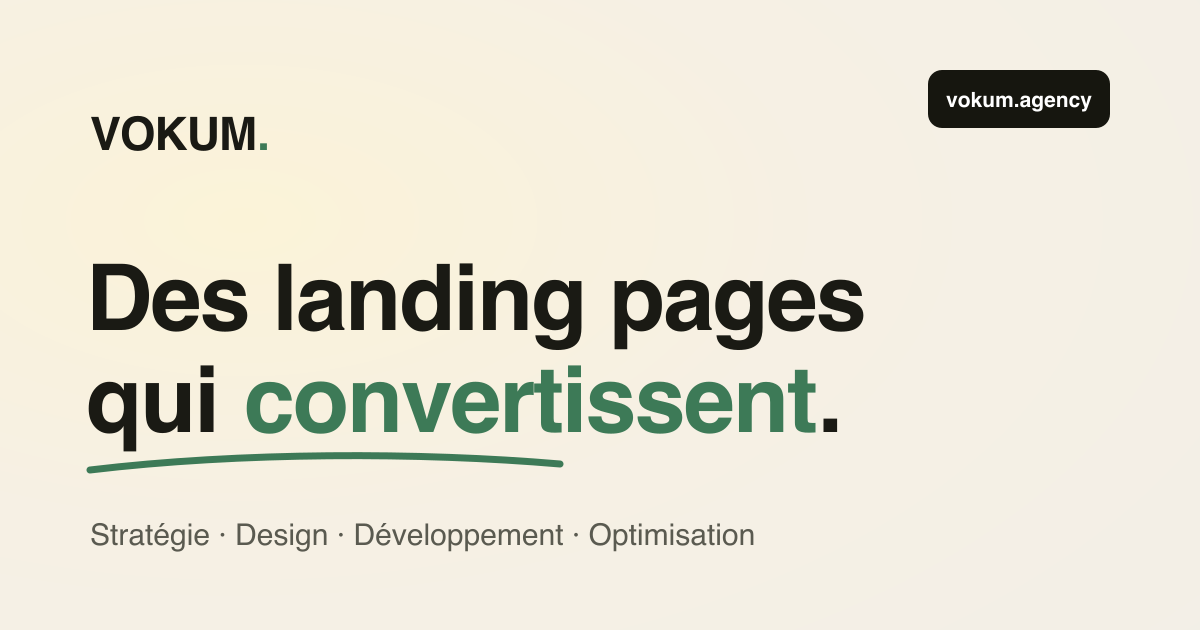
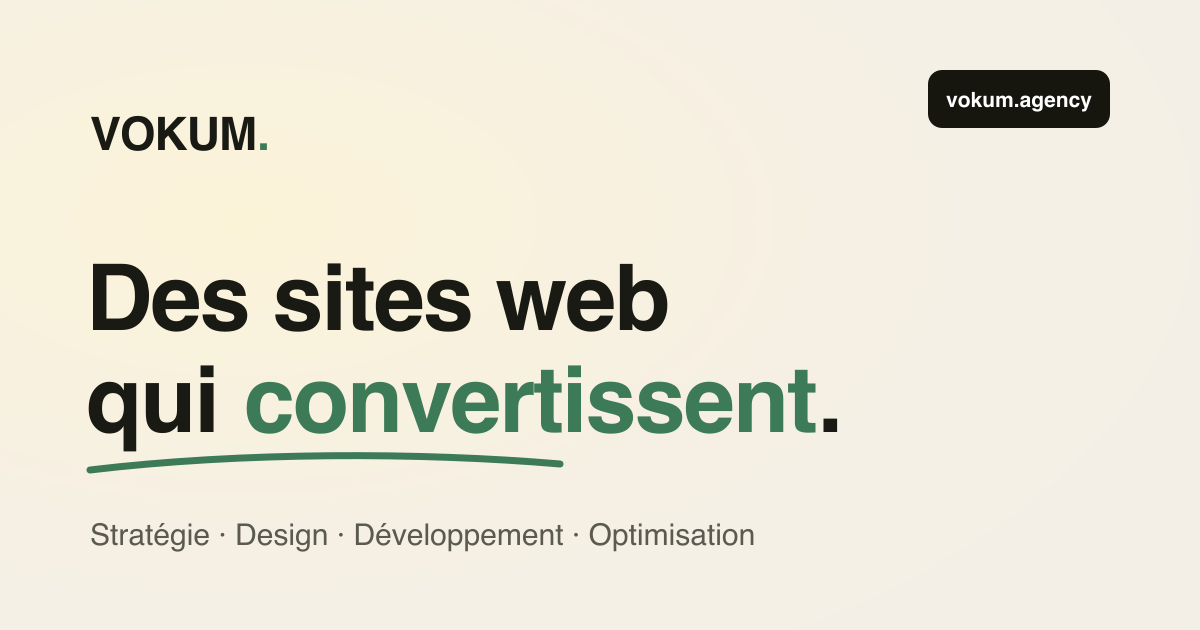
Rebrand : landing pages → sites web
Positionnement recentré sur la création de sites web (pas seulement
des landing pages). Remplacé partout : hero, titres, meta, OG/Twitter,
JSON-LD, services, tarifs, FAQ, blog, guides, processus, contact, 404.
- H1 « On crée des sites web qui convertissent »
- service 01 « Création de site web »
- OG image régénérée « Des sites web qui convertissent »
- grammaire corrigée (masculin), « votre page » → « votre site »
- domaine vokum-landing.vercel.app inchangé

Changed region(s): [[0.2158, 0.4222, 0.74, 0.573]]

diff --git a/index.html b/index.html
@@ -3,21 +3,21 @@
 <head>
 <meta charset="utf-8">
 <meta name="viewport" content="width=device-width, initial-scale=1">
-<title>VOKUM — Landing pages premium qui convertissent</title>
-<meta name="description" content="VOKUM conçoit des landing pages sur-mesure, rapides et stratégiques pour transformer vos visiteurs en clients.">
+<title>VOKUM — Sites web premium qui convertissent</title>
+<meta name="description" content="VOKUM conçoit des sites web sur-mesure, rapides et stratégiques pour transformer vos visiteurs en clients.">
 <meta name="theme-color" content="#f6f0e4">
 
 <meta property="og:type" content="website">
 <meta property="og:url" content="https://vokum-landing.vercel.app/">
-<meta property="og:title" content="Des landing pages premium qui convertissent.">
-<meta property="og:description" content="Stratégie, design et développement pour lancer une page claire, rapide et orientée résultats.">
+<meta property="og:title" content="Des sites web premium qui convertissent.">
+<meta property="og:description" content="Stratégie, design et développement pour lancer un site clair, rapide et orientée résultats.">
 <meta property="og:image" content="https://vokum-landing.vercel.app/assets/og.png">
 <meta property="og:image:width" content="1200">
 <meta property="og:image:height" content="630">
 <meta property="og:locale" content="fr_FR">
 <meta name="twitter:card" content="summary_large_image">
-<meta name="twitter:title" content="Des landing pages premium qui convertissent.">
-<meta name="twitter:description" content="Stratégie, design et développement pour lancer une page claire, rapide et orientée résultats.">
+<meta name="twitter:title" content="Des sites web premium qui convertissent.">
+<meta name="twitter:description" content="Stratégie, design et développement pour lancer un site clair, rapide et orientée résultats.">
 <meta name="twitter:image" content="https://vokum-landing.vercel.app/assets/og.png">
 
 <link rel="preconnect" href="https://fonts.googleapis.com">
@@ -40,17 +40,17 @@
       "url": "https://vokum-landing.vercel.app/",
       "logo": "https://vokum-landing.vercel.app/apple-touch-icon.png",
       "image": "https://vokum-landing.vercel.app/assets/og.png",
-      "description": "Agence spécialisée en landing pages premium orientées conversion : stratégie, design, développement et optimisation.",
+      "description": "Agence spécialisée en sites web premium orientées conversion : stratégie, design, développement et optimisation.",
       "email": "[email redacted]",
       "address": { "@type": "PostalAddress", "addressLocality": "Montréal", "addressRegion": "QC", "addressCountry": "CA" },
       "areaServed": ["Québec", "Canada", "France", "International"],
-      "knowsAbout": ["Landing pages", "Conversion", "Web design", "Développement web", "Tests A/B"]
+      "knowsAbout": ["Sites web", "Conversion", "Web design", "Développement web", "Tests A/B"]
     },
     {
       "@type": "WebSite",
       "@id": "https://vokum-landing.vercel.app/#website",
       "url": "https://vokum-landing.vercel.app/",
-      "name": "VOKUM — Landing pages premium qui convertissent",
+      "name": "VOKUM — Sites web premium qui convertissent",
       "inLanguage": "fr",
       "publisher": { "@id": "https://vokum-landing.vercel.app/#organization" }
     }
@@ -68,9 +68,9 @@
   <section class="hero">
     <div class="container hero__grid">
       <div class="hero__left reveal">
-        <h1 class="hero__title">On crée<br>des landing<br>pages</h1>
+        <h1 class="hero__title">On crée<br>des sites<br>web</h1>
         <div class="hero__script">qui convertissent.</div>
-        <p class="hero__lead">Nous concevons des landing pages sur-mesure qui captent l'attention et transforment chaque visite en client.</p>
+        <p class="hero__lead">Nous concevons des sites web sur-mesure qui captent l'attention et transforment chaque visite en client.</p>
         <div class="hero__actions">
           <a href="/contact" class="btn btn--dark btn--lg">DÉMARRER UN PROJET
             <svg class="icon-arrow" viewBox="0 0 24 24" aria-hidden="true"><path d="M7 17 17 7M9 7h8v8"/></svg>
@@ -101,7 +101,7 @@
             <path d="M60 42 C 67 45, 73 47, 76 49 C 76 45, 77 39, 79 33" stroke="#2d5a43" stroke-width="2.4" stroke-linecap="round" stroke-linejoin="round"/>
           </svg>
         </div>
-        <img src="assets/p1-1448.webp" srcset="assets/p1-800.webp 800w, assets/p1-1448.webp 1448w" sizes="(max-width: 900px) 100vw, 670px" alt="Aperçu de la landing page NUBIK avec carte de statistiques" class="hero__img" width="1448" height="1086" fetchpriority="high" decoding="async">
+        <img src="assets/p1-1448.webp" srcset="assets/p1-800.webp 800w, assets/p1-1448.webp 1448w" sizes="(max-width: 900px) 100vw, 670px" alt="Aperçu du site web NUBIK avec carte de statistiques" class="hero__img" width="1448" height="1086" fetchpriority="high" decoding="async">
       </div>
     </div>
   </section>
@@ -115,7 +115,7 @@
         <p class="section__sub">Chaque projet suit un processus clair et éprouvé pour transformer<br>vos objectifs en résultats mesurables.</p>
       </div>
       <div class="scards" id="servicesGrid"></div>
-      <p class="svc-note reveal">Chaque landing page est livrée avec une base SEO propre — structure des titres, balises essentielles, performance, images optimisées, indexation prête pour Google. L'option SEO &amp; GEO ajoute la stratégie de visibilité.</p>
+      <p class="svc-note reveal">Chaque site web est livré avec une base SEO propre — structure des titres, balises essentielles, performance, images optimisées, indexation prête pour Google. L'option SEO &amp; GEO ajoute la stratégie de visibilité.</p>
       <div class="perks reveal">
         <div class="perk">
           <svg viewBox="0 0 24 24" aria-hidden="true"><circle cx="12" cy="13" r="8"/><path d="M12 9v4l2.5 2.5"/><path d="M10 2h4"/></svg>

diff --git a/faq.html b/faq.html
@@ -4,7 +4,7 @@
 <meta charset="utf-8">
 <meta name="viewport" content="width=device-width, initial-scale=1">
 <title>FAQ — Vokum | Vos questions, nos réponses</title>
-<meta name="description" content="Délais, tarifs, révisions, hébergement, technologies… Toutes les réponses aux questions fréquentes sur les landing pages Vokum.">
+<meta name="description" content="Délais, tarifs, révisions, hébergement, technologies… Toutes les réponses aux questions fréquentes sur les sites web Vokum.">
 <link rel="preconnect" href="https://fonts.googleapis.com">
 <link rel="preconnect" href="https://fonts.gstatic.com" crossorigin>
 <link href="https://fonts.googleapis.com/css2?family=Anton&family=Caveat:wght@500;600;700&family=Archivo:wght@400;500;600;700;800&display=swap" rel="stylesheet">
@@ -19,14 +19,14 @@
   "@context": "https://schema.org",
   "@type": "FAQPage",
   "mainEntity": [
-    { "@type": "Question", "name": "En combien de temps ma landing page est-elle livrée ?", "acceptedAnswer": { "@type": "Answer", "text": "Comptez 5 jours pour la formule Essentiel et environ 8 jours pour la formule Croissance, à partir de la validation du brief. Les projets sur-mesure ont un calendrier dédié défini ensemble." } },
+    { "@type": "Question", "name": "En combien de temps ma site web est-elle livrée ?", "acceptedAnswer": { "@type": "Answer", "text": "Comptez 5 jours pour la formule Essentiel et environ 8 jours pour la formule Croissance, à partir de la validation du brief. Les projets sur-mesure ont un calendrier dédié défini ensemble." } },
     { "@type": "Question", "name": "Combien de retours sont inclus ?", "acceptedAnswer": { "@type": "Answer", "text": "Une série de retours avec la formule Essentiel, deux avec la formule Croissance. Des retours supplémentaires sont possibles à un tarif communiqué à l'avance." } },
     { "@type": "Question", "name": "Avec quelles technologies travaillez-vous ?", "acceptedAnswer": { "@type": "Answer", "text": "On code des pages légères et ultra-rapides (HTML/CSS/JS, Next.js selon le besoin). On peut aussi livrer sur Webflow, Framer ou votre CMS existant si vous préférez gérer le contenu vous-même." } },
     { "@type": "Question", "name": "Vous occupez-vous du contenu et des textes ?", "acceptedAnswer": { "@type": "Answer", "text": "Oui. La formule Croissance inclut un atelier stratégie et le copywriting. Pour l'Essentiel, on part de votre contenu et on l'optimise pour la conversion." } },
-    { "@type": "Question", "name": "Gérez-vous l'hébergement et la mise en ligne ?", "acceptedAnswer": { "@type": "Answer", "text": "On met votre page en ligne et on configure le tracking. L'hébergement reste à votre nom (Vercel, Netlify, votre hébergeur…) : on vous accompagne pour le choisir et le configurer." } },
-    { "@type": "Question", "name": "Que se passe-t-il après le lancement ?", "acceptedAnswer": { "@type": "Answer", "text": "Un premier point de performance est offert. Avec la formule Croissance, on optimise votre page pendant un mois via des tests A/B. Un suivi continu est disponible en sur-mesure." } },
-    { "@type": "Question", "name": "Le SEO est-il inclus ?", "acceptedAnswer": { "@type": "Answer", "text": "Oui. Chaque landing page est livrée avec une base SEO technique propre : structure des titres, balises essentielles, performance, responsive mobile, images optimisées et indexation prête pour Google. Pour une vraie stratégie de visibilité, on propose le pack SEO & GEO avancé en option (690 €)." } },
-    { "@type": "Question", "name": "Quelle différence entre le SEO inclus et le pack SEO & GEO avancé ?", "acceptedAnswer": { "@type": "Answer", "text": "Le SEO inclus, c'est la fondation technique de votre page : structure, balises, vitesse, indexation. Le pack avancé, c'est la stratégie de visibilité : recherche de mots-clés, structure de contenu, optimisation pour que les IA comme ChatGPT ou Perplexity citent votre marque (GEO), et suivi mensuel." } },
+    { "@type": "Question", "name": "Gérez-vous l'hébergement et la mise en ligne ?", "acceptedAnswer": { "@type": "Answer", "text": "On met votre site en ligne et on configure le tracking. L'hébergement reste à votre nom (Vercel, Netlify, votre hébergeur…) : on vous accompagne pour le choisir et le configurer." } },
+    { "@type": "Question", "name": "Que se passe-t-il après le lancement ?", "acceptedAnswer": { "@type": "Answer", "text": "Un premier point de performance est offert. Avec la formule Croissance, on optimise votre site pendant un mois via des tests A/B. Un suivi continu est disponible en sur-mesure." } },
+    { "@type": "Question", "name": "Le SEO est-il inclus ?", "acceptedAnswer": { "@type": "Answer", "text": "Oui. Chaque site web est livré avec une base SEO technique propre : structure des titres, balises essentielles, performance, responsive mobile, images optimisées et indexation prête pour Google. Pour une vraie stratégie de visibilité, on propose le pack SEO & GEO avancé en option (690 €)." } },
+    { "@type": "Question", "name": "Quelle différence entre le SEO inclus et le pack SEO & GEO avancé ?", "acceptedAnswer": { "@type": "Answer", "text": "Le SEO inclus, c'est la fondation technique de votre site : structure, balises, vitesse, indexation. Le pack avancé, c'est la stratégie de visibilité : recherche de mots-clés, structure de contenu, optimisation pour que les IA comme ChatGPT ou Perplexity citent votre marque (GEO), et suivi mensuel." } },
     { "@type": "Question", "name": "Garantissez-vous la première position sur Google ?", "acceptedAnswer": { "@type": "Answer", "text": "Non — et méfiez-vous de ceux qui la promettent. Personne ne contrôle Google. Notre rôle : livrer une base rapide, propre et bien structurée, puis une stratégie sérieuse qui maximise vos chances d'être visible. On mesure, on ajuste, on progresse." } },
     { "@type": "Question", "name": "Pouvez-vous refondre une page existante ?", "acceptedAnswer": { "@type": "Answer", "text": "Absolument. C'est même un de nos terrains favoris : on part de l'existant, on identifie les freins à la conversion et on reconstruit une version plus performante." } },
     { "@type": "Question", "name": "Quels sont les délais et modalités de paiement ?", "acceptedAnswer": { "@type": "Answer", "text": "En général 50% à la commande, 50% à la livraison. Le paiement en plusieurs fois est possible, et les projets sur-mesure ont un échéancier adapté." } }
@@ -51,7 +51,7 @@
   <section class="section">
     <div class="container">
       <div class="acc">
-        <div class="acc__item"><button class="acc__q" aria-expanded="false">En combien de temps ma landing page est-elle livrée ?<span class="acc__icon"></span></button><div class="acc__a"><p>Comptez 5 jours pour la formule Essentiel et environ 8 jours pour la formule Croissance, à partir de la validation du brief. Les projets sur-mesure ont un calendrier dédié défini ensemble.</p></div></div>
+        <div class="acc__item"><button class="acc__q" aria-expanded="false">En combien de temps ma site web est-elle livrée ?<span class="acc__icon"></span></button><div class="acc__a"><p>Comptez 5 jours pour la formule Essentiel et environ 8 jours pour la formule Croissance, à partir de la validation du brief. Les projets sur-mesure ont un calendrier dédié défini ensemble.</p></div></div>
 
         <div class="acc__item"><button class="acc__q" aria-expanded="false">Combien de retours sont inclus ?<span class="acc__icon"></span></button><div class="acc__a"><p>Une série de retours avec la formule Essentiel, deux avec la formule Croissance. Des retours supplémentaires sont possibles à un tarif communiqué à l'avance.</p></div></div>
 
@@ -59,13 +59,13 @@
 
         <div class="acc__item"><button class="acc__q" aria-expanded="false">Vous occupez-vous du contenu et des textes ?<span class="acc__icon"></span></button><div class="acc__a"><p>Oui. La formule Croissance inclut un atelier stratégie et le copywriting. Pour l'Essentiel, on part de votre contenu et on l'optimise pour la conversion.</p></div></div>
 
-        <div class="acc__item"><button class="acc__q" aria-expanded="false">Gérez-vous l'hébergement et la mise en ligne ?<span class="acc__icon"></span></button><div class="acc__a"><p>On met votre page en ligne et on configure le tracking. L'hébergement reste à votre nom (Vercel, Netlify, votre hébergeur…) : on vous accompagne pour le choisir et le configurer.</p></div></div>
+        <div class="acc__item"><button class="acc__q" aria-expanded="false">Gérez-vous l'hébergement et la mise en ligne ?<span class="acc__icon"></span></button><div class="acc__a"><p>On met votre site en ligne et on configure le tracking. L'hébergement reste à votre nom (Vercel, Netlify, votre hébergeur…) : on vous accompagne pour le choisir et le configurer.</p></div></div>
 
-        <div class="acc__item"><button class="acc__q" aria-expanded="false">Que se passe-t-il après le lancement ?<span class="acc__icon"></span></button><div class="acc__a"><p>Un premier point de performance est offert. Avec la formule Croissance, on optimise votre page pendant un mois via des tests A/B. Un suivi continu est disponible en sur-mesure.</p></div></div>
+        <div class="acc__item"><button class="acc__q" aria-expanded="false">Que se passe-t-il après le lancement ?<span class="acc__icon"></span></button><div class="acc__a"><p>Un premier point de performance est offert. Avec la formule Croissance, on optimise votre site pendant un mois via des tests A/B. Un suivi continu est disponible en sur-mesure.</p></div></div>
 
-        <div class="acc__item"><button class="acc__q" aria-expanded="false">Le SEO est-il inclus ?<span class="acc__icon"></span></button><div class="acc__a"><p>Oui. Chaque landing page est livrée avec une base SEO technique propre : structure des titres, balises essentielles, performance, responsive mobile, images optimisées et indexation prête pour Google. Pour une vraie stratégie de visibilité, on propose le pack SEO & GEO avancé en option (690 €).</p></div></div>
+        <div class="acc__item"><button class="acc__q" aria-expanded="false">Le SEO est-il inclus ?<span class="acc__icon"></span></button><div class="acc__a"><p>Oui. Chaque site web est livré avec une base SEO technique propre : structure des titres, balises essentielles, performance, responsive mobile, images optimisées et indexation prête pour Google. Pour une vraie stratégie de visibilité, on propose le pack SEO & GEO avancé en option (690 €).</p></div></div>
 
-        <div class="acc__item"><button class="acc__q" aria-expanded="false">Quelle différence entre le SEO inclus et le pack SEO & GEO avancé ?<span class="acc__icon"></span></button><div class="acc__a"><p>Le SEO inclus, c'est la fondation technique de votre page : structure, balises, vitesse, indexation. Le pack avancé, c'est la stratégie de visibilité : recherche de mots-clés, structure de contenu, optimisation pour que les IA comme ChatGPT ou Perplexity citent votre marque (GEO), et suivi mensuel.</p></div></div>
+        <div class="acc__item"><button class="acc__q" aria-expanded="false">Quelle différence entre le SEO inclus et le pack SEO & GEO avancé ?<span class="acc__icon"></span></button><div class="acc__a"><p>Le SEO inclus, c'est la fondation technique de votre site : structure, balises, vitesse, indexation. Le pack avancé, c'est la stratégie de visibilité : recherche de mots-clés, structure de contenu, optimisation pour que les IA comme ChatGPT ou Perplexity citent votre marque (GEO), et suivi mensuel.</p></div></div>
 
         <div class="acc__item"><button class="acc__q" aria-expanded="false">Garantissez-vous la première position sur Google ?<span class="acc__icon"></span></button><div class="acc__a"><p>Non — et méfiez-vous de ceux qui la promettent. Personne ne contrôle Google. Notre rôle : livrer une base rapide, propre et bien structurée, puis une stratégie sérieuse qui maximise vos chances d'être visible. On mesure, on ajuste, on progresse.</p></div></div>
 

diff --git a/guides.html b/guides.html
@@ -4,7 +4,7 @@
 <meta charset="utf-8">
 <meta name="viewport" content="width=device-width, initial-scale=1">
 <title>Guides — Vokum | Ressources gratuites pour convertir</title>
-<meta name="description" content="Guides et ressources gratuites Vokum : checklists, templates et méthodes pour créer des landing pages qui convertissent.">
+<meta name="description" content="Guides et ressources gratuites Vokum : checklists, templates et méthodes pour créer des sites web qui convertissent.">
 <link rel="preconnect" href="https://fonts.googleapis.com">
 <link rel="preconnect" href="https://fonts.gstatic.com" crossorigin>
 <link href="https://fonts.googleapis.com/css2?family=Anton&family=Caveat:wght@500;600;700&family=Archivo:wght@400;500;600;700;800&display=swap" rel="stylesheet">
@@ -34,10 +34,10 @@
       <div class="posts">
 
         <article class="post reveal">
-          <div class="post__thumb"><img src="assets/p1-800.webp" width="800" height="600" loading="lazy" decoding="async" alt="Checklist landing page"></div>
+          <div class="post__thumb"><img src="assets/p1-800.webp" width="800" height="600" loading="lazy" decoding="async" alt="Checklist site web"></div>
           <div class="post__body">
             <div class="post__tag">CHECKLIST · PDF</div>
-            <h3 class="post__title">La checklist 40 points de la landing parfaite</h3>
+            <h3 class="post__title">La checklist 40 points du site qui convertit</h3>
             <p class="post__excerpt">Tout ce qu'on vérifie avant de mettre une page en ligne. À imprimer.</p>
             <div class="post__meta"><span>Gratuit</span><span>·</span><span>Télécharger</span></div>
           </div>
@@ -77,7 +77,7 @@
           <div class="post__thumb"><img src="assets/p6-640.webp" width="640" height="640" loading="lazy" decoding="async" alt="Audit gratuit"></div>
           <div class="post__body">
             <div class="post__tag">OUTIL</div>
-            <h3 class="post__title">Le mini-audit de votre page actuelle</h3>
+            <h3 class="post__title">Le mini-audit de votre site actuel</h3>
             <p class="post__excerpt">10 questions pour repérer ce qui plombe vos conversions aujourd'hui.</p>
             <div class="post__meta"><span>Gratuit</span><span>·</span><span>Commencer</span></div>
           </div>
@@ -87,7 +87,7 @@
           <div class="post__thumb"><img src="assets/p2-700.webp" width="700" height="394" loading="lazy" decoding="async" alt="Guide performance"></div>
           <div class="post__body">
             <div class="post__tag">GUIDE</div>
-            <h3 class="post__title">Optimiser la vitesse de sa landing</h3>
+            <h3 class="post__title">Optimiser la vitesse de son site</h3>
             <p class="post__excerpt">Les réglages concrets pour passer le seuil des 90 de performance.</p>
             <div class="post__meta"><span>Gratuit</span><span>·</span><span>Télécharger</span></div>
           </div>

diff --git a/script.js b/script.js
@@ -1,5 +1,5 @@
 /* ============================================================
-   VOKUM — landing (index)
+   VOKUM — accueil (index)
    Rend les sections répétées. Chrome + interactions = site.js.
    ============================================================ */
 
@@ -16,8 +16,8 @@ const icons = {
 const data = {
   services: [
     {
-      slug: 'strategie', n: '01', icon: 'target', iconBg: '#e3ead8', title: 'CRÉATION DE LANDING PAGE',
-      line: 'Votre page sur-mesure, de la stratégie au lancement. Pensée pour convertir, livrée en moins d’une semaine.',
+      slug: 'strategie', n: '01', icon: 'target', iconBg: '#e3ead8', title: 'CRÉATION DE SITE WEB',
+      line: 'Votre site sur-mesure, de la stratégie au lancement. Pensée pour convertir, livrée en moins d’une semaine.',
       items: ['Stratégie & message de conversion', 'Design premium sur-mesure', 'Développement ultra-rapide', 'Base SEO technique incluse', 'Tests A/B & optimisation continue']
     },
     {
@@ -29,8 +29,8 @@ const data = {
   steps: [
     { n: '01', active: true, title: 'DÉCOUVERTE', desc: 'On échange sur votre projet, vos objectifs et votre audience.' },
     { n: '02', active: false, title: 'STRATÉGIE', desc: 'On structure le message et la page pour convertir.' },
-    { n: '03', active: false, title: 'DESIGN & DEV', desc: 'On conçoit et développe votre landing page.' },
-    { n: '04', active: false, title: 'LANCEMENT', desc: 'On optimise, on teste et on lance votre page.' }
+    { n: '03', active: false, title: 'DESIGN & DEV', desc: 'On conçoit et développe votre site web.' },
+    { n: '04', active: false, title: 'LANCEMENT', desc: 'On optimise, on teste et on lance votre site.' }
   ],
   works: [
     { slug: 'roll-in-love', category: 'COFFEE SHOP', name: 'Roll in Love', metric: 'Une DA existante, portée sur le web', positive: false, image: 'assets/work-rollinlove-720.webp', objectPosition: 'center top' },

diff --git a/services.html b/services.html
@@ -4,7 +4,7 @@
 <meta charset="utf-8">
 <meta name="viewport" content="width=device-width, initial-scale=1">
 <title>Services — Vokum | Stratégie, design, développement, optimisation</title>
-<meta name="description" content="Les 4 expertises Vokum pour des landing pages qui convertissent : stratégie, design, développement et optimisation continue.">
+<meta name="description" content="Les 4 expertises Vokum pour des sites web qui convertissent : stratégie, design, développement et optimisation continue.">
 <link rel="preconnect" href="https://fonts.googleapis.com">
 <link rel="preconnect" href="https://fonts.gstatic.com" crossorigin>
 <link href="https://fonts.googleapis.com/css2?family=Anton&family=Caveat:wght@500;600;700&family=Archivo:wght@400;500;600;700;800&display=swap" rel="stylesheet">
@@ -25,7 +25,7 @@
       <div class="breadcrumb"><a href="/">ACCUEIL</a> / <span>SERVICES</span></div>
       <h1 class="page-hero__title">Un seul objectif :<br>vos résultats</h1>
       <div class="page-hero__script">et tout ce qu'il faut pour y arriver.</div>
-      <p class="page-hero__lead">De la première analyse au dernier test A/B, on prend en charge l'intégralité de votre landing page. Quatre expertises, un seul fil rouge : la conversion.</p>
+      <p class="page-hero__lead">De la première analyse au dernier test A/B, on prend en charge l'intégralité de votre site web. Quatre expertises, un seul fil rouge : la conversion.</p>
       <div class="page-hero__actions">
         <a href="/contact" class="btn btn--dark btn--lg">DÉMARRER UN PROJET <svg class="icon-arrow" viewBox="0 0 24 24" aria-hidden="true"><path d="M7 17 17 7M9 7h8v8"/></svg></a>
         <a href="/tarifs" class="link-underline">VOIR LES TARIFS <svg class="icon-arrow" viewBox="0 0 24 24" aria-hidden="true"><path d="M7 17 17 7M9 7h8v8"/></svg></a>
@@ -41,7 +41,7 @@
           <div class="feature__icon" style="background:#e3ead8"><svg viewBox="0 0 24 24"><circle cx="12" cy="12" r="9"/><circle cx="12" cy="12" r="5"/><circle cx="12" cy="12" r="1.4" fill="currentColor" stroke="none"/></svg></div>
           <div class="feature__num">01 — STRATÉGIE</div>
           <h2 class="feature__title">On vise juste avant de créer</h2>
-          <p class="feature__text">Une belle page qui ne convertit pas ne sert à rien. On commence donc par comprendre votre offre, votre marché et vos concurrents pour bâtir un message qui résonne avec votre audience et la pousse à l'action.</p>
+          <p class="feature__text">Un beau site qui ne convertit pas ne sert à rien. On commence donc par comprendre votre offre, votre marché et vos concurrents pour bâtir un message qui résonne avec votre audience et la pousse à l'action.</p>
           <ul class="feature__list">
             <li>Audit de votre offre, de votre positionnement et de vos concurrents</li>
             <li>Définition de la promesse et des arguments de conversion</li>
@@ -65,7 +65,7 @@
             <li>Système de composants réutilisables</li>
           </ul>
         </div>
-        <div class="feature__media"><img src="assets/p1-1448.webp" srcset="assets/p1-800.webp 800w, assets/p1-1448.webp 1448w" sizes="(max-width: 900px) 100vw, 560px" alt="Maquette de landing page" width="1448" height="1086" loading="lazy" decoding="async"></div>
+        <div class="feature__media"><img src="assets/p1-1448.webp" srcset="assets/p1-800.webp 800w, assets/p1-1448.webp 1448w" sizes="(max-width: 900px) 100vw, 560px" alt="Maquette de site web" width="1448" height="1086" loading="lazy" decoding="async"></div>
       </article>
 
       <article class="feature reveal" id="developpement">
@@ -89,7 +89,7 @@
           <div class="feature__icon" style="background:#f3dcd4"><svg viewBox="0 0 24 24"><circle cx="11" cy="11" r="7"/><path d="m21 21-4.3-4.3"/><path d="M11 8a3 3 0 0 0-3 3"/></svg></div>
           <div class="feature__num">04 — SEO &amp; GEO · EN OPTION</div>
           <h2 class="feature__title">Trouvé par Google, cité par les IA</h2>
-          <p class="feature__text">D'abord, une chose claire : <strong>chaque landing page est livrée avec une base SEO propre</strong> — structure des titres, balises essentielles, performance, images optimisées, indexation prête pour Google. C'est inclus, sans supplément.</p>
+          <p class="feature__text">D'abord, une chose claire : <strong>chaque site web est livré avec une base SEO propre</strong> — structure des titres, balises essentielles, performance, images optimisées, indexation prête pour Google. C'est inclus, sans supplément.</p>
           <p class="feature__text">Pour les marques qui veulent aller plus loin, le <strong>pack SEO &amp; GEO avancé</strong> ajoute la stratégie de visibilité. <strong>Le SEO avancé</strong> : recherche de mots-clés, structure de contenu, pages ciblées. <strong>Le GEO</strong> (Generative Engine Optimization) : vos clients posent désormais leurs questions à ChatGPT, Perplexity ou aux AI Overviews — on structure votre contenu pour que ces IA mentionnent votre marque quand on leur demande une recommandation.</p>
           <p class="feature__text">On ne promet pas la première position — personne ne le peut sérieusement. On construit une base solide, une stratégie mesurée chaque mois, et on progresse.</p>
           <ul class="feature__list">

diff --git a/a-propos.html b/a-propos.html
@@ -3,8 +3,8 @@
 <head>
 <meta charset="utf-8">
 <meta name="viewport" content="width=device-width, initial-scale=1">
-<title>À propos — Vokum | L'agence landing page nouvelle génération</title>
-<meta name="description" content="Vokum, agence basée à Montréal spécialisée dans les landing pages à haute conversion. Notre histoire, nos valeurs, notre équipe.">
+<title>À propos — Vokum | L'agence site web nouvelle génération</title>
+<meta name="description" content="Vokum, agence basée à Montréal spécialisée dans les sites web à haute conversion. Notre histoire, nos valeurs, notre équipe.">
 <link rel="preconnect" href="https://fonts.googleapis.com">
 <link rel="preconnect" href="https://fonts.gstatic.com" crossorigin>
 <link href="https://fonts.googleapis.com/css2?family=Anton&family=Caveat:wght@500;600;700&family=Archivo:wght@400;500;600;700;800&display=swap" rel="stylesheet">
@@ -35,7 +35,7 @@
         <div>
           <div class="feature__num">NOTRE HISTOIRE</div>
           <h2 class="feature__title">De Montréal au reste du monde</h2>
-          <p class="feature__text">Fondée à Montréal, Vokum réunit stratèges, designers et développeurs autour d'une seule discipline : la landing page qui convertit. Pas de tout-faire, pas de compromis — uniquement ce qu'on maîtrise le mieux.</p>
+          <p class="feature__text">Fondée à Montréal, Vokum réunit stratèges, designers et développeurs autour d'une seule discipline : le site web qui convertit. Pas de tout-faire, pas de compromis — uniquement ce qu'on maîtrise le mieux.</p>
           <p class="feature__text">En quelques années, on a accompagné des SaaS, des fintechs, des agences et des marques e-commerce, avec une promesse tenue à chaque fois : des pages plus rapides, plus claires et plus rentables.</p>
         </div>
         <div class="feature__media"><img src="assets/p2-1200.webp" srcset="assets/p2-700.webp 700w, assets/p2-1200.webp 1200w" sizes="(max-width: 900px) 100vw, 560px" alt="L'atelier Vokum" width="1200" height="675" loading="lazy" decoding="async"></div>
@@ -59,7 +59,7 @@
       <div class="values">
         <div class="value reveal"><div class="value__k">01</div><div class="value__t">RÉSULTATS AVANT TOUT</div><p class="value__d">On ne livre pas une page « jolie », on livre une page qui convertit. Chaque décision est mesurée à l'aune de votre ROI.</p></div>
         <div class="value reveal"><div class="value__k">02</div><div class="value__t">CLARTÉ RADICALE</div><p class="value__d">Devis clair, délais clairs, message clair. Pas de jargon, pas de surprise — vous savez toujours où on en est.</p></div>
-        <div class="value reveal"><div class="value__k">03</div><div class="value__t">VITESSE D'EXÉCUTION</div><p class="value__d">Une landing en 5 à 8 jours. On avance vite sans jamais sacrifier la qualité ni la performance.</p></div>
+        <div class="value reveal"><div class="value__k">03</div><div class="value__t">VITESSE D'EXÉCUTION</div><p class="value__d">Un site livré en 5 à 8 jours. On avance vite sans jamais sacrifier la qualité ni la performance.</p></div>
       </div>
     </div>
   </section>

diff --git a/blog.html b/blog.html
@@ -4,7 +4,7 @@
 <meta charset="utf-8">
 <meta name="viewport" content="width=device-width, initial-scale=1">
 <title>Blog — Vokum | Conversion, design & growth</title>
-<meta name="description" content="Articles Vokum sur la conversion, le design de landing page, le copywriting et le growth. Des conseils concrets, testés sur le terrain.">
+<meta name="description" content="Articles Vokum sur la conversion, le design de site web, le copywriting et le growth. Des conseils concrets, testés sur le terrain.">
 <link rel="preconnect" href="https://fonts.googleapis.com">
 <link rel="preconnect" href="https://fonts.gstatic.com" crossorigin>
 <link href="https://fonts.googleapis.com/css2?family=Anton&family=Caveat:wght@500;600;700&family=Archivo:wght@400;500;600;700;800&display=swap" rel="stylesheet">
@@ -58,7 +58,7 @@
           <div class="post__body">
             <div class="post__tag">COPYWRITING</div>
             <h3 class="post__title">Écrire un titre qui arrête le scroll</h3>
-            <p class="post__excerpt">La formule en 3 temps qu'on utilise sur chaque landing page client.</p>
+            <p class="post__excerpt">La formule en 3 temps qu'on utilise sur chaque site web client.</p>
             <div class="post__meta"><span>5 min</span><span>·</span><span>Copy</span></div>
           </div>
         </article>
@@ -102,7 +102,7 @@
       <div class="cta-band__inner reveal">
         <div class="eyebrow eyebrow--light">ASSEZ LU ?</div>
         <h2 class="h2">Passons à l'action</h2>
-        <div class="cta-band__script">on applique tout ça à votre page.</div>
+        <div class="cta-band__script">on applique tout ça à votre site.</div>
         <a href="/contact" class="btn btn--lg">DÉMARRER UN PROJET <svg class="icon-arrow" viewBox="0 0 24 24" aria-hidden="true"><path d="M7 17 17 7M9 7h8v8"/></svg></a>
       </div>
     </div>

diff --git a/tarifs.html b/tarifs.html
@@ -3,7 +3,7 @@
 <head>
 <meta charset="utf-8">
 <meta name="viewport" content="width=device-width, initial-scale=1">
-<title>Tarifs — Vokum | Des prix clairs pour des landing pages qui convertissent</title>
+<title>Tarifs — Vokum | Des prix clairs pour des sites web qui convertissent</title>
 <meta name="description" content="Trois formules transparentes : Essentiel, Croissance et Sur-mesure. Choisissez le niveau d'accompagnement adapté à votre projet.">
 <link rel="preconnect" href="https://fonts.googleapis.com">
 <link rel="preconnect" href="https://fonts.gstatic.com" crossorigin>
@@ -36,9 +36,9 @@
           <div class="plan__badge">ESSENTIEL</div>
           <div class="plan__name">Lancement</div>
           <div class="plan__price">1 000&nbsp;€ <span>/ projet</span></div>
-          <p class="plan__desc">La landing page parfaite pour valider une offre ou une campagne.</p>
+          <p class="plan__desc">La site web parfaite pour valider une offre ou une campagne.</p>
           <ul class="plan__list">
-            <li>1 landing page sur-mesure</li>
+            <li>1 site web sur-mesure</li>
             <li>Design desktop & mobile</li>
             <li>Intégration responsive optimisée</li>
             <li>Base SEO technique incluse</li>

diff --git a/404.html b/404.html
@@ -4,7 +4,7 @@
 <meta charset="utf-8">
 <meta name="viewport" content="width=device-width, initial-scale=1">
 <title>Page introuvable — Vokum</title>
-<meta name="description" content="Cette page n'existe plus. Mais votre prochaine landing page, elle, peut exister très vite.">
+<meta name="description" content="Cette page n'existe plus. Mais votre prochaine site web, elle, peut exister très vite.">
 <meta name="robots" content="noindex">
 <link rel="icon" href="/favicon.ico" sizes="32x32">
 <link rel="icon" href="/favicon.svg" type="image/svg+xml">
@@ -24,7 +24,7 @@
     <div class="container">
       <div class="notfound__code">404</div>
       <h1 class="page-hero__title">Cette page<br>n'existe plus.</h1>
-      <div class="page-hero__script">mais votre prochaine landing page, elle, peut exister très vite.</div>
+      <div class="page-hero__script">mais votre prochaine site web, elle, peut exister très vite.</div>
       <div class="page-hero__actions">
         <a href="/" class="btn btn--dark btn--lg">RETOUR À L'ACCUEIL</a>
         <a href="/contact" class="link-underline">DÉMARRER UN PROJET <svg class="icon-arrow" viewBox="0 0 24 24" aria-hidden="true"><path d="M7 17 17 7M9 7h8v8"/></svg></a>

diff --git a/contact.html b/contact.html
@@ -4,7 +4,7 @@
 <meta charset="utf-8">
 <meta name="viewport" content="width=device-width, initial-scale=1">
 <title>Contact — Vokum | Démarrer un projet</title>
-<meta name="description" content="Parlez-nous de votre projet de landing page : objectifs, budget, délais. Réponse garantie sous 24 h.">
+<meta name="description" content="Parlez-nous de votre projet de site web : objectifs, budget, délais. Réponse garantie sous 24 h.">
 <link rel="preconnect" href="https://fonts.googleapis.com">
 <link rel="preconnect" href="https://fonts.gstatic.com" crossorigin>
 <link href="https://fonts.googleapis.com/css2?family=Anton&family=Caveat:wght@500;600;700&family=Archivo:wght@400;500;600;700;800&display=swap" rel="stylesheet">
@@ -69,7 +69,7 @@
             <label class="field__label" for="cf-type">TYPE DE PROJET</label>
             <select class="field__input" id="cf-type" name="projectType">
               <option value="">Choisir…</option>
-              <option>Landing page</option>
+              <option>Site web</option>
               <option>Refonte de page existante</option>
               <option>SEO &amp; GEO</option>
               <option>Site vitrine</option>

diff --git a/processus.html b/processus.html
@@ -25,7 +25,7 @@
       <div class="breadcrumb"><a href="/">ACCUEIL</a> / <span>PROCESSUS</span></div>
       <h1 class="page-hero__title">Simple, rapide<br>et efficace</h1>
       <div class="page-hero__script">du premier appel au lancement.</div>
-      <p class="page-hero__lead">Quatre étapes claires, un délai moyen de 5 à 8 jours, et vous toujours dans la boucle. Voici comment on transforme une idée en landing page qui convertit.</p>
+      <p class="page-hero__lead">Quatre étapes claires, un délai moyen de 5 à 8 jours, et vous toujours dans la boucle. Voici comment on transforme une idée en site web qui convertit.</p>
       <div class="stats">
         <div class="stat"><div class="stat__val">04</div><div class="stat__label">étapes</div></div>
         <div class="stat"><div class="stat__val">5-8<em>j</em></div><div class="stat__label">délai moyen</div></div>
@@ -102,7 +102,7 @@
       <div class="cta-band__inner reveal">
         <div class="eyebrow eyebrow--light">ON COMMENCE QUAND ?</div>
         <h2 class="h2">Lançons votre projet</h2>
-        <div class="cta-band__script">votre landing en ligne sous 8 jours.</div>
+        <div class="cta-band__script">votre site en ligne sous 8 jours.</div>
         <a href="/contact" class="btn btn--lg">DÉMARRER UN PROJET <svg class="icon-arrow" viewBox="0 0 24 24" aria-hidden="true"><path d="M7 17 17 7M9 7h8v8"/></svg></a>
       </div>
     </div>

diff --git a/site.js b/site.js
@@ -54,7 +54,7 @@ const footerHTML = `
   <div class="container footer__grid">
     <div class="footer__brand">
       <div class="brand brand--footer">VOKUM<span class="brand__dot">.</span></div>
-      <p>Agence spécialisée dans la création de landing pages à haute conversion.</p>
+      <p>Agence spécialisée dans la création de sites web à haute conversion.</p>
     </div>
     <div class="footer__col">
       <div class="footer__title">NAVIGATION</div>
@@ -77,7 +77,7 @@ const footerHTML = `
   </div>
   <div class="container footer__base">
     <span>© ${new Date().getFullYear()} Vokum. Tous droits réservés.</span>
-    <span>Fait à Montréal ✦ landing pages qui convertissent.</span>
+    <span>Fait à Montréal ✦ sites web qui convertissent.</span>
   </div>
 </footer>`;
 